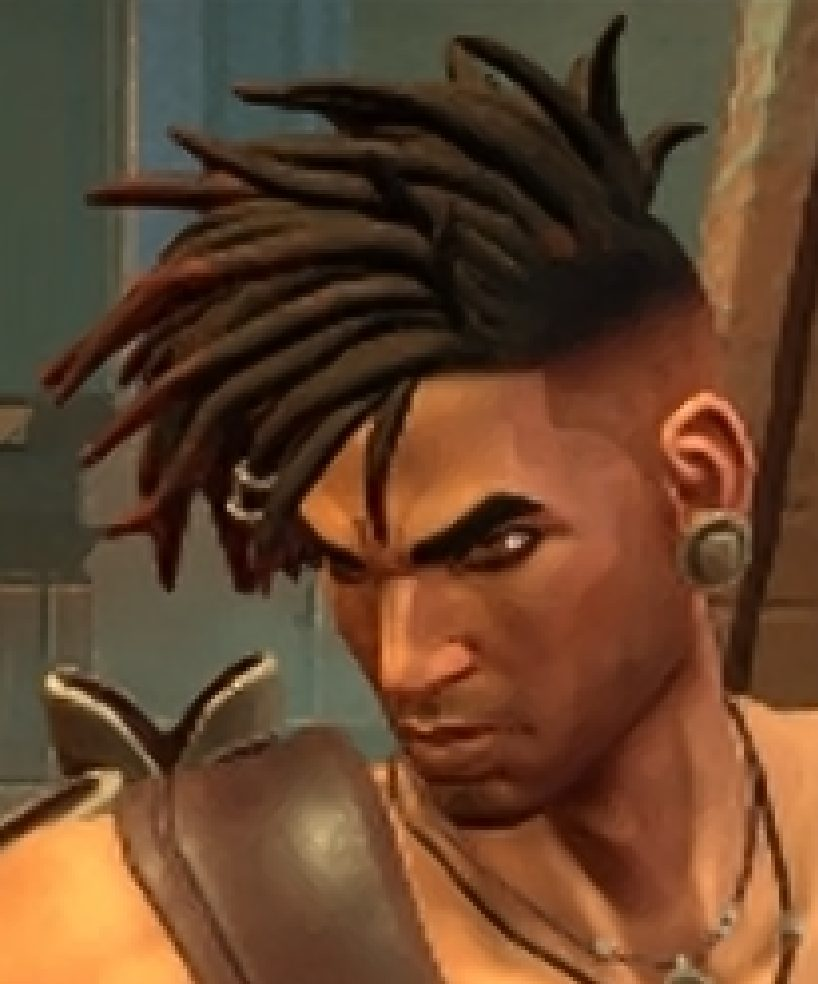
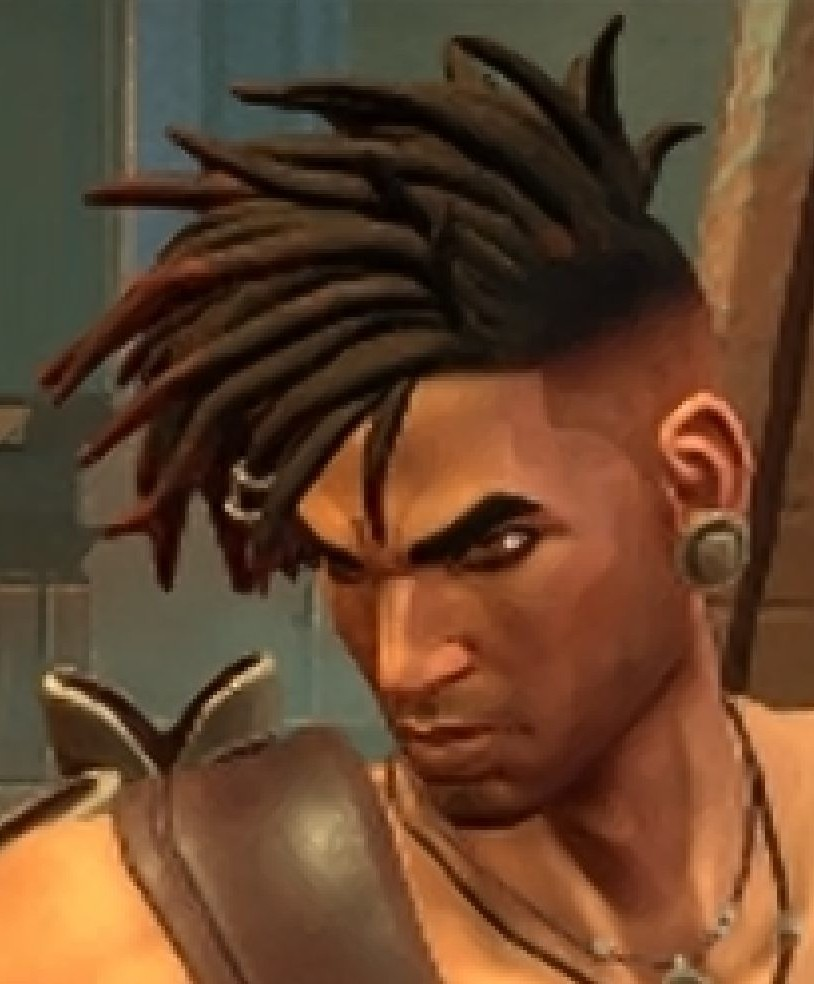
docs(website): align VE comparator images + animated GIF in README
- Normalize enhance_before/after to 814x984 so the on-page before/after
  comparator aligns pixel-perfect (after was 818px wide, drifting under object-fit:cover)
- Replace static README video_enhancement.png with an animated GIF: yellow
  divider sweeps left/right with 1s pauses at each end, revealing 720p vs enhanced

diff --git a/website/index.html b/website/index.html
@@ -594,7 +594,7 @@
         <div class="glow" style="background:radial-gradient(50% 50% at 50% 50%, rgba(245,217,10,.12), transparent 70%)"></div>
         <div class="ba" id="ba">
           <img class="before" src="assets/enhance_before.jpg" width="814" height="984" alt="Original 720p game stream, zoomed on a character's face">
-          <img class="after" src="assets/enhance_after.jpg" width="818" height="984" alt="Same frame after Video Super Resolution upscaling to 1440p">
+          <img class="after" src="assets/enhance_after.jpg" width="814" height="984" alt="Same frame after Video Super Resolution upscaling to 1440p">
           <span class="tag l" data-i18n="s3.tagl">720p STREAM</span>
           <span class="tag r" data-i18n="s3.tagr">ENHANCED ▸ 1440p</span>
           <div class="bar"></div>

diff --git a/README.md b/README.md
@@ -88,7 +88,7 @@ Browser‑side image enhancement on the GPU (WebGPU): **upscaling (FSR1 & SGSRv1
 
 <div align="center">
 
-![Video Enhancement — 720p upscaled to 1440p](docs/screenshots/video_enhancement.png)
+![Video Enhancement — 720p upscaled to 1440p](docs/screenshots/video_enhancement.gif)
 
 </div>
 
